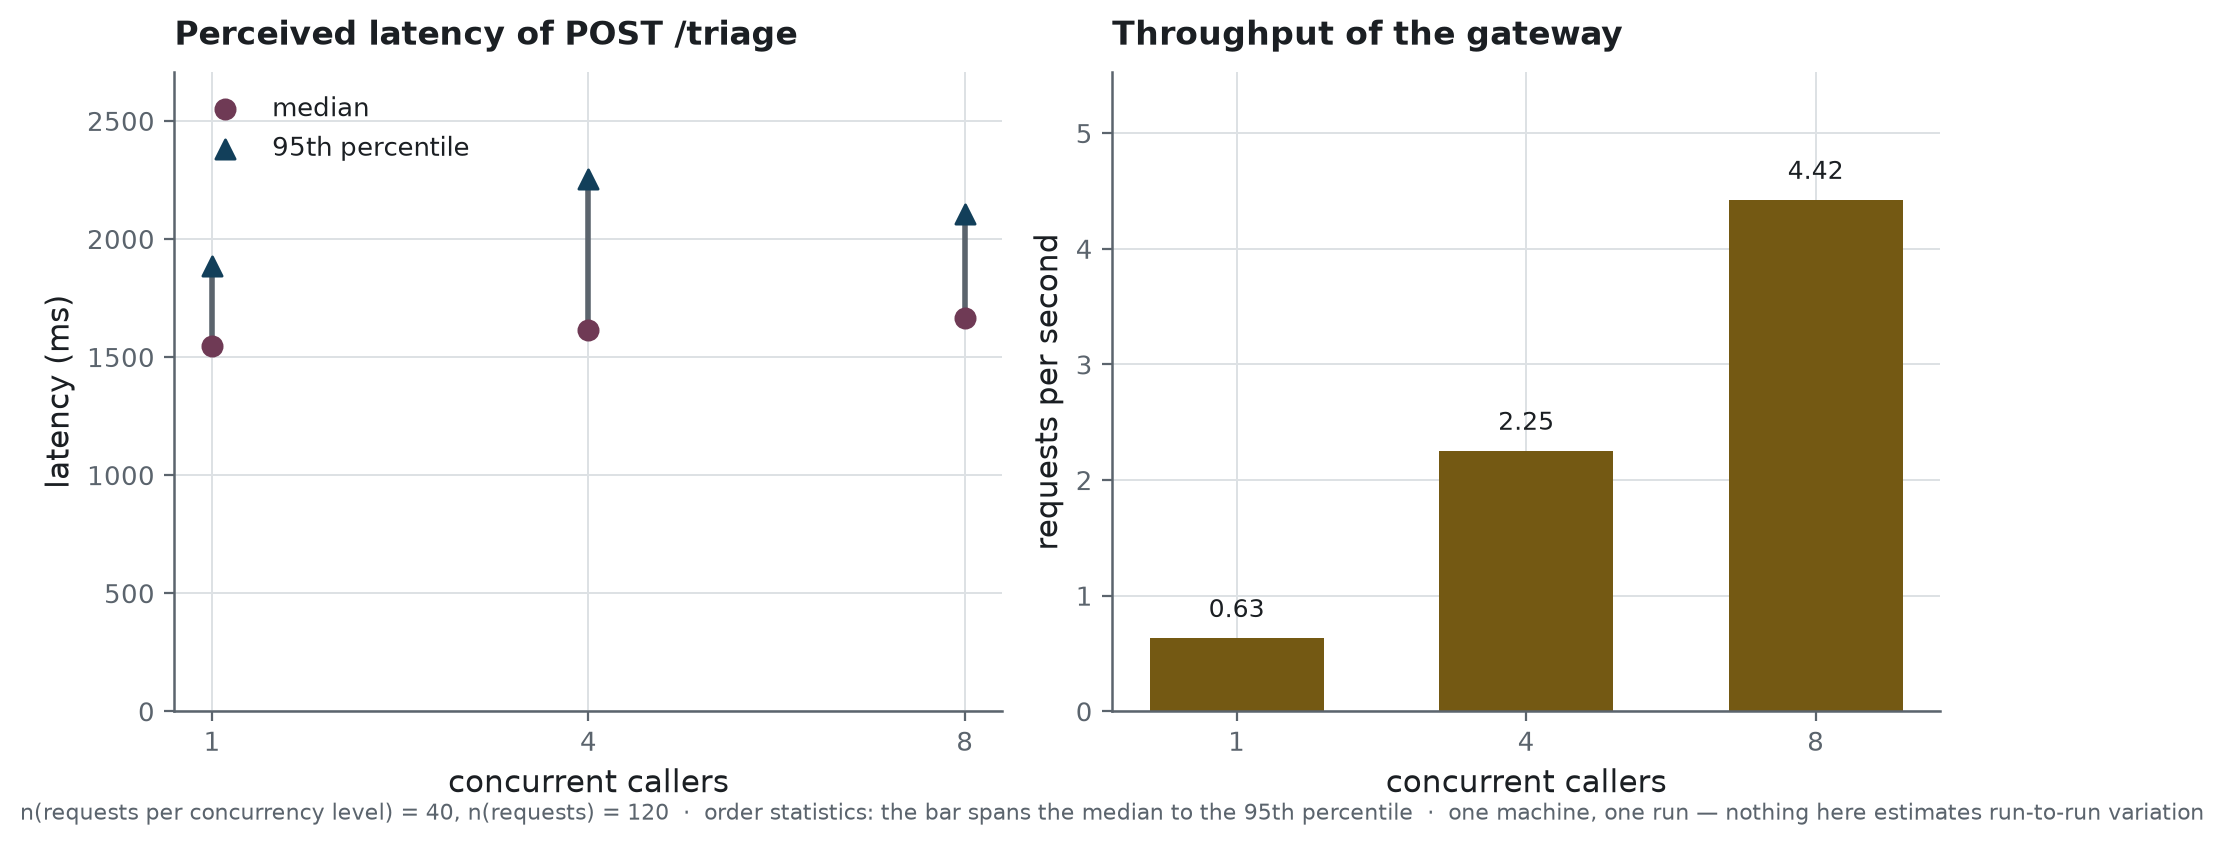
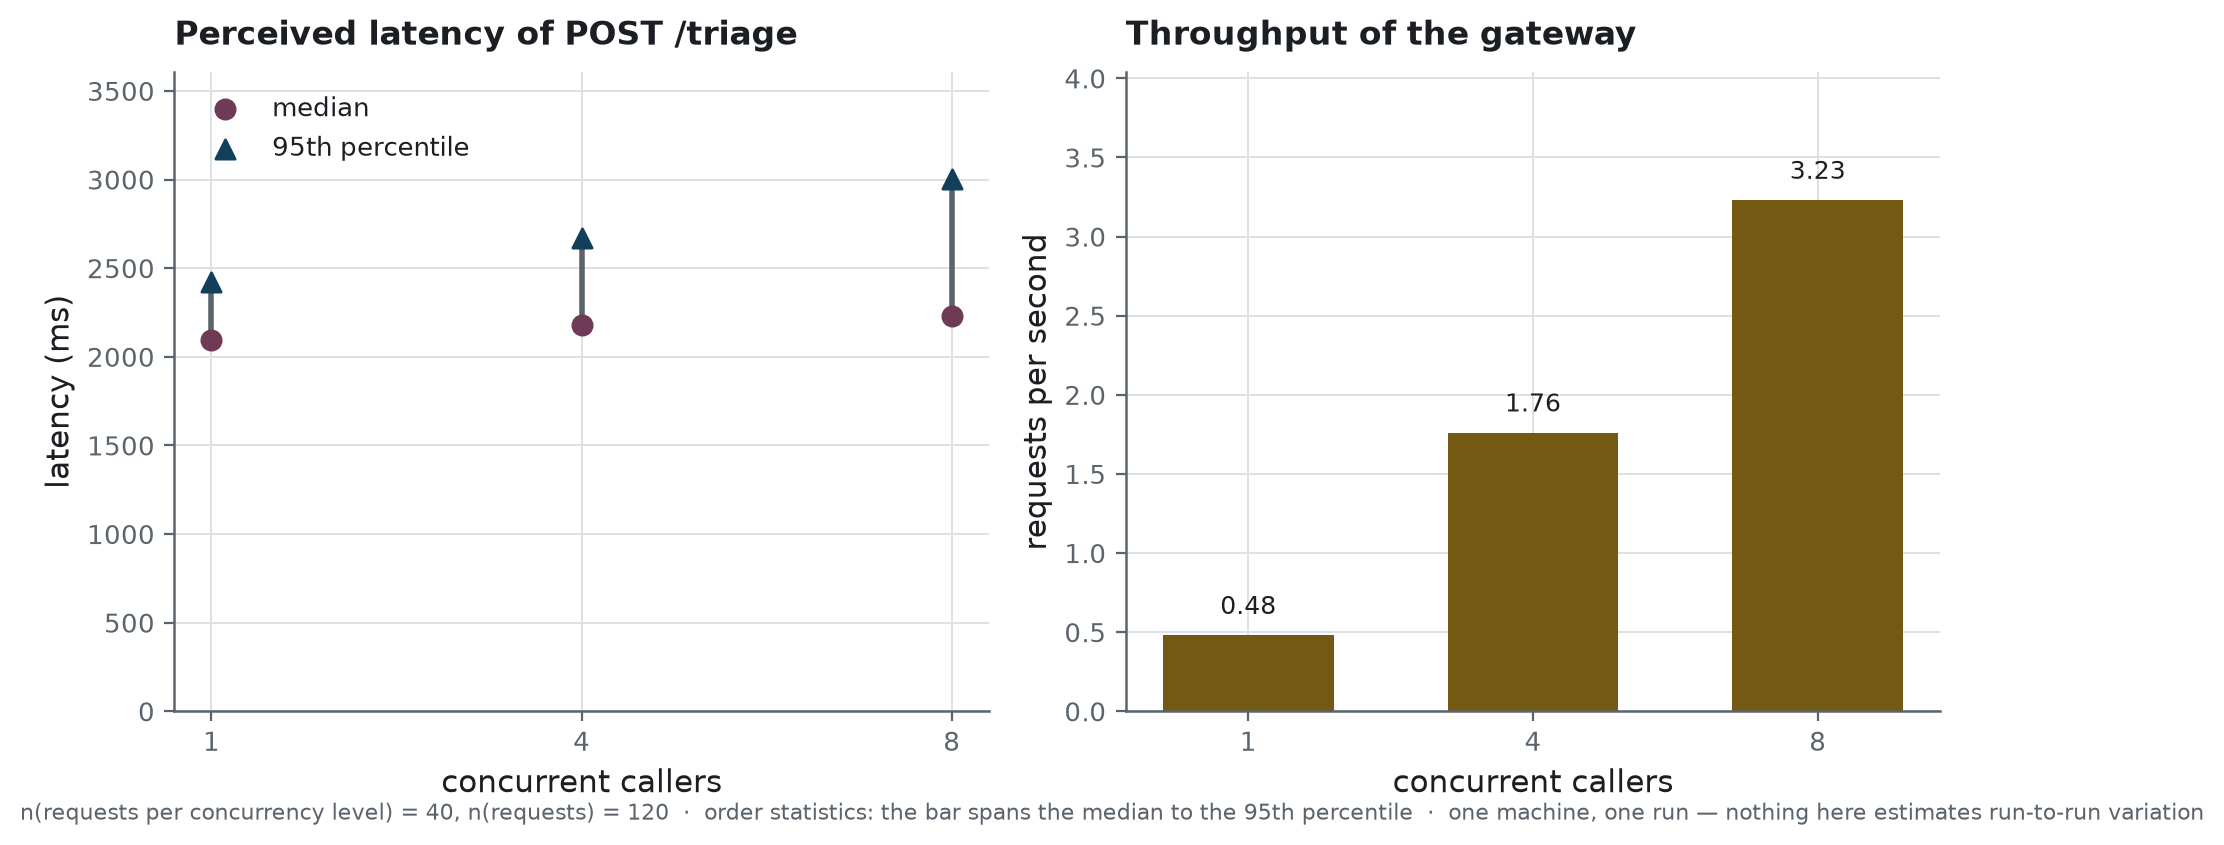
docs(operations): report the latency measured three times on the Modal deployment

diff --git a/docs/operations.md b/docs/operations.md
@@ -54,25 +54,28 @@ ready, because the engine takes minutes to load three gigabytes of weights. A de
 > while throughput flattens means the queue, and not the model, is the limit.
 
 <!-- source: reports/benchmark_endpoint.json -->
-One triage takes **1,548.8** milliseconds at the median with a single caller, n = 40 requests,
-and **1,886.3** at the 95th percentile. The gateway's own share of that is **16.9** milliseconds:
-validation, the questionnaire, the explicit rule, the anonymisation and the audit line together
-cost about a hundredth of the answer. Everything else is generation.
+On the Modal deployment of this version, one triage takes **2,095.2** milliseconds at the median
+with a single caller, n = 40 requests, and **2,422.7** at the 95th percentile. The engine was vLLM
+**0.29.0** on one L4 GPU, the version the deployment pins, as the engine itself reports it.
+Questioned directly, it answers in **1,739.4** milliseconds at the median. Of a triage, **388.8**
+milliseconds pass outside generation: the gateway's own work (validation, the questionnaire, the
+explicit rule, the anonymisation, the audit line) and, for the most part, distance, since the bench
+ran from a workstation in France and the engine sits in Modal's us-east region.
 
 <!-- source: reports/benchmark_endpoint.json -->
-With four callers at once, n = 40 requests each, the median moves to **1,616.5** milliseconds and
-the 95th percentile to **2,254.3**, past the two seconds the criteria below ask for. With eight, the
-median is **1,666.4** milliseconds and the throughput **4.42** requests per second. The engine
-absorbs concurrency well; what moves is the tail, and unevenly: the 95th percentile at eight
-callers, **2,103.6**, is lower than at four. On forty requests that percentile is simply the
-third-slowest request, so a single run cannot pin it down more closely.
+With four callers at once, n = 40 requests each, the median moves to **2,178.6** milliseconds and
+the 95th percentile to **2,670.3**, past the two seconds the criteria below ask for. With eight, the
+median is **2,227.8** milliseconds and the throughput **3.23** requests per second. The engine
+absorbs concurrency well; what moves is the tail.
 
 <!-- source: reports/benchmark_endpoint.json -->
-The engine was vLLM 0.11.0, the version a Windows workstation can run, not the 0.29.0 the deployment
-pins, which does not start under WSL 2
-([`infra/README.md`](../infra/README.md#2-the-full-container-stack)). These are order statistics on
-one machine, one run, against that engine. They are not a capacity plan, and the repository does not
-claim one.
+The bench ran three times in a row, and the figure draws the first run. From one run to the next
+the medians stay within a tenth of a second: **2,087.9** to **2,095.2** milliseconds with one
+caller, **2,222.7** to **2,309.0** with eight. The 95th percentile moves more: **2,604.9** to
+**2,774.9** with four callers, **2,731.9** to **3,083.6** with eight. On forty requests that
+percentile is the third-slowest request, and three runs show how far it wanders. These are order
+statistics on one deployment, from one workstation, on one evening. They are not a capacity plan,
+and the repository does not claim one.
 
 ## The quota
 
@@ -189,8 +192,8 @@ from `reports/benchmark_endpoint.json`.
    0.439.
 4. **Format compliance**, the lower bound of its 95% interval at least 0.99: undecided; 1.000,
    bound at 0.940.
-5. **Latency at the ninety-fifth percentile, four callers at once**, at most 2,000 ms: not met on a
-   workstation; 2,254 ms with vLLM 0.11.0.
+5. **Latency at the ninety-fifth percentile, four callers at once**, at most 2,000 ms: not met;
+   2,604.9 to 2,774.9 ms over three runs on the Modal deployment, with vLLM 0.29.0.
 6. **An audit log that persists and is anonymised**, verified: met; one file a day, a chain of
    digests, a retention applied.
 7. **An endpoint authenticated, rate-limited and served over HTTPS**, verified: met on Modal,

diff --git a/README.md b/README.md
@@ -367,8 +367,9 @@ the data supports, not "the model is worse". Three seeds give the size of what t
 they say nothing about cases written by someone else.
 
 The alignment does not transfer beyond the defects it was trained on, and the service's latency
-([`docs/operations.md`](docs/operations.md#what-one-decision-costs)) was measured on one machine,
-one run, against an older engine than the deployment's. The three triage levels simplify the
+([`docs/operations.md`](docs/operations.md#what-one-decision-costs)) was measured on the
+deployment itself, three runs from one workstation far from the service: the profile of an
+evening, not a capacity plan. The three triage levels simplify the
 five of the French emergency triage scale, and the model reads French and English but always
 answers in French; the questionnaire is in French only.
 
